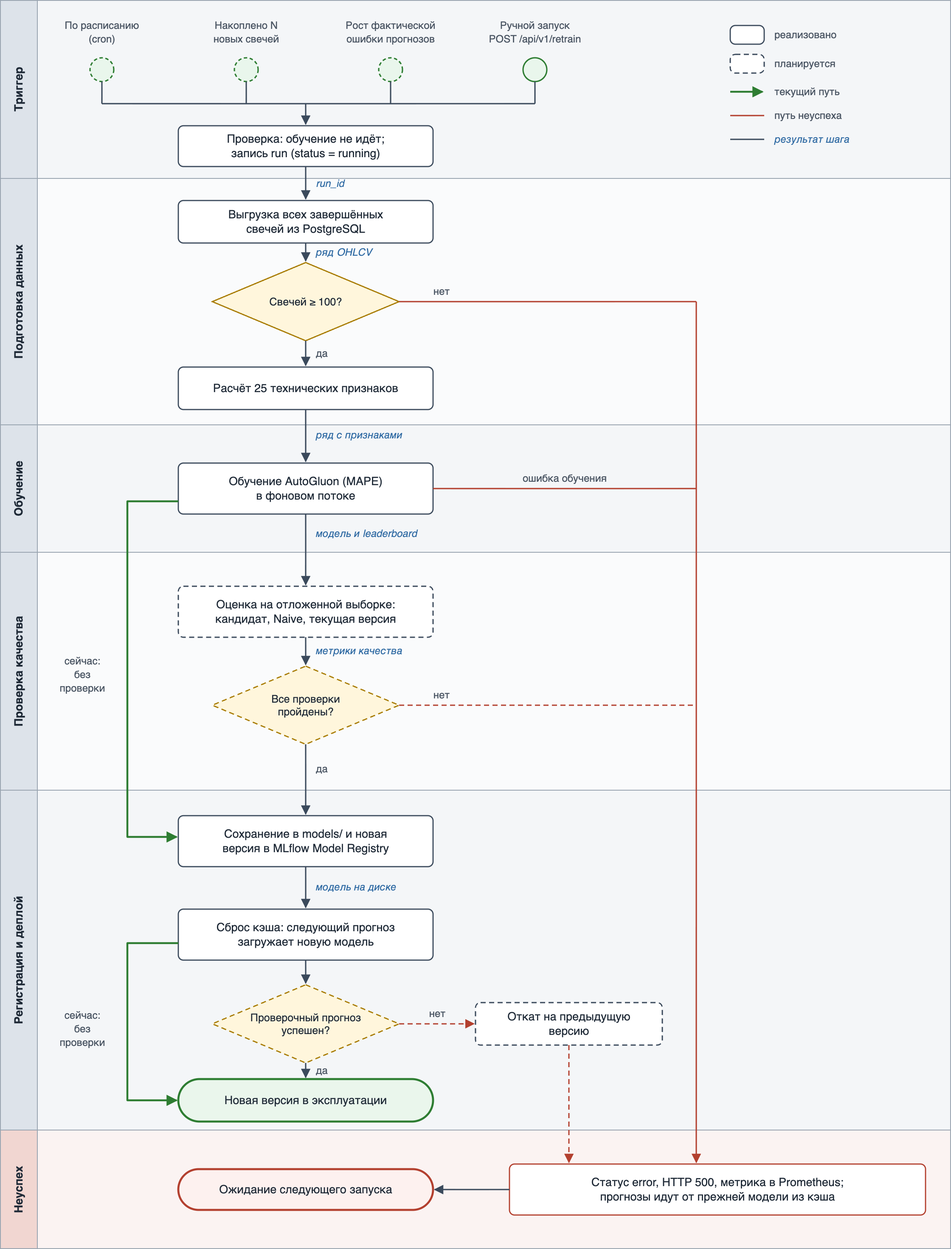
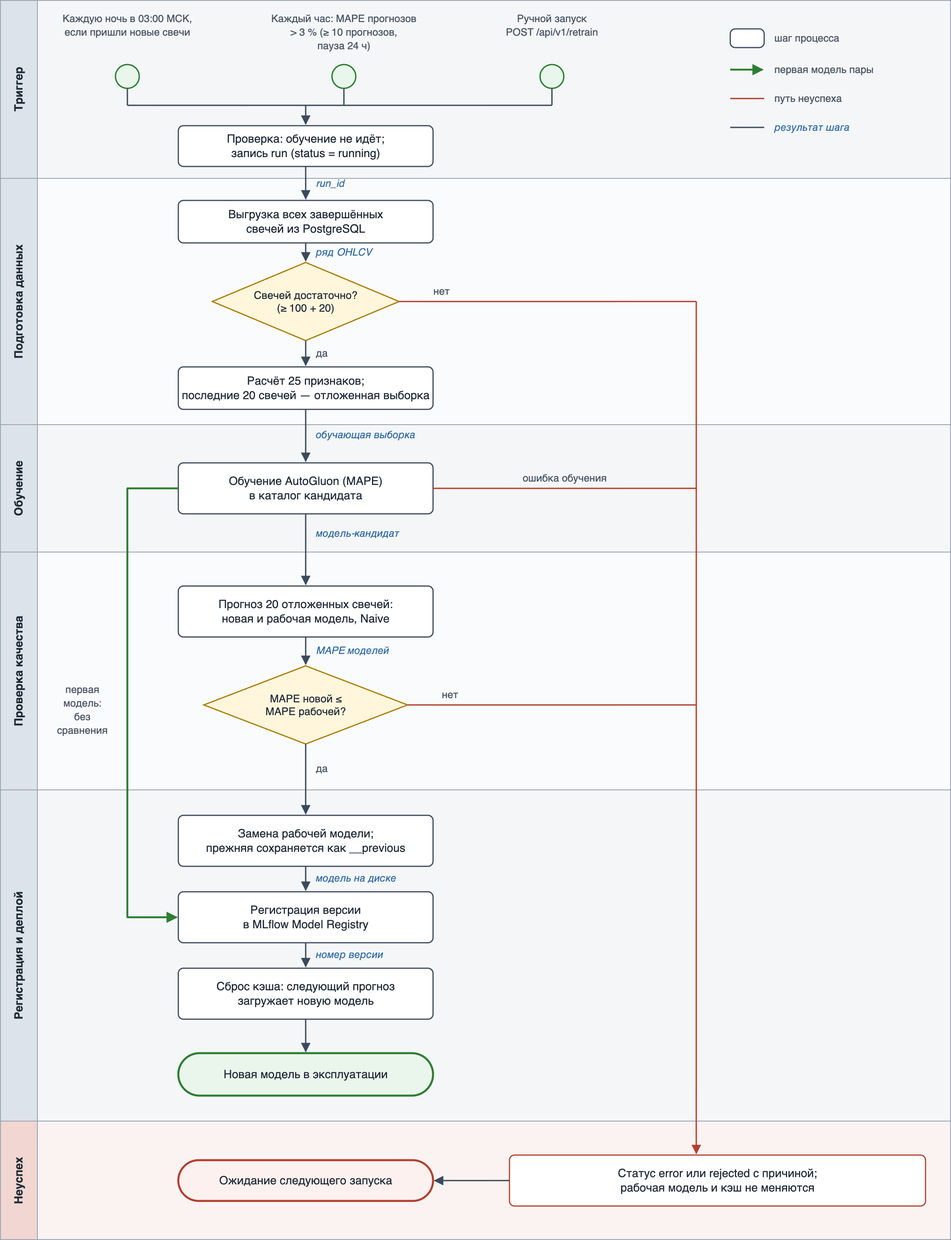
Update the doc and schemas

diff --git a/Model_retrain_BPMN.md b/Model_retrain_BPMN.md
@@ -2,13 +2,19 @@
 
 Документ описывает переобучение модели прогноза цены закрытия — от триггера до ввода новой версии в эксплуатацию. Подробности о модели — в [model_card.md](model_card.md), её место в общем процессе — в [Model_BPMN.md](Model_BPMN.md).
 
-**Текущее состояние.** Переобучение запускается вручную запросом `POST /api/v1/retrain`. Сервис обучает новую модель и сразу ставит её в эксплуатацию: проверки качества перед публикацией и отката пока нет. Автоматических триггеров тоже нет — планировщик сервиса сейчас запускает только прогнозы, но не обучение.
+Переобучение запускается автоматически: каждую ночь по расписанию и при росте фактической ошибки прогнозов. Его можно запустить и вручную. Новая модель попадает в эксплуатацию, только если на последних свечах она прогнозирует не хуже текущей рабочей модели; иначе рабочая модель остаётся.
 
-На схеме и в описании отмечено, какие этапы уже работают, а какие нужно добавить, чтобы переобучение стало автоматическим и безопасным.
+Код процесса:
+
+| Модуль | Что делает |
+|---|---|
+| [app/retrain.py](app/retrain.py) | Триггеры: ночная задача, ежечасная проверка ошибки; запуск переобучения и запись результата в журнал |
+| [app/ml/retraining.py](app/ml/retraining.py) | Обучение кандидата, сравнение с рабочей моделью, замена модели, регистрация в MLflow |
+| [app/ml/training.py](app/ml/training.py) | Обучение модели AutoGluon |
 
 ## Схема процесса
 
-Горизонтальные дорожки — этапы процесса. Сплошной контур — этап реализован, пунктирный — планируется. Зелёная линия — путь, по которому модель проходит сейчас: после обучения она сразу сохраняется и попадает в эксплуатацию. Красные линии — путь неуспеха; синие курсивные подписи — результат, который этап передаёт дальше.
+Горизонтальные дорожки — этапы процесса. Зелёная линия — путь первой модели пары, которую не с чем сравнивать. Красные линии — путь неуспеха, синие курсивные подписи — результат, который этап передаёт дальше.
 
 ![Схема процесса переобучения модели](model_retrain_bpmn.png)
 
@@ -18,85 +24,103 @@
 
 ### 1. Триггер запуска
 
-| Триггер | Условие | Статус |
-|---|---|---|
-| Ручной запуск | Аналитик вызывает `POST /api/v1/retrain` с параметрами `instrument_uid`, `interval` и, при необходимости, `time_limit` | реализовано |
-| По расписанию | cron-задача планировщика, например раз в неделю для `1DAY` | планируется |
-| Накоплены новые данные | С последней свечи, на которой обучалась рабочая модель, пришло не меньше N новых свечей | планируется |
-| Рост фактической ошибки | MAPE последних прогнозов относительно реальных цен закрытия выше порога | планируется |
+Переобучение запускается для пары «инструмент + таймфрейм» одним из трёх событий:
 
-Сервис проверяет, что по этой паре «инструмент + таймфрейм» не идёт другое обучение (иначе отвечает кодом 409), и создаёт запись в таблице `model_training_runs` со статусом `running`.
+| Триггер | Когда срабатывает | Для каких пар |
+|---|---|---|
+| Ночное расписание | Каждую ночь в 03:00 по Москве, после закрытия вечерней сессии. Пара пропускается, если с её прошлого запуска обучения не пришло ни одной новой завершённой свечи, — например, в выходные | Все пары, у которых есть обученная модель |
+| Рост фактической ошибки | Проверка идёт каждый час в :15. Ретрейн запускается, если выполнены все условия: сверено не меньше 10 прогнозов текущей модели; их средний MAPE (по последним 20) выше 3 %; с прошлого запуска обучения прошло больше 24 часов | Все пары, у которых есть обученная модель |
+| Ручной запуск | Вызов `POST /api/v1/retrain` с параметрами `instrument_uid`, `interval` и, при необходимости, `time_limit` | Любая пара |
+
+**Как считается фактическая ошибка.** Каждый прогноз — по API и по расписанию — сохраняется в таблицу `model_predictions` вместе с отметкой модели, которая его сделала. Когда появляется следующая завершённая свеча, прогноз сверяется с её ценой закрытия. Учитываются только прогнозы текущей рабочей модели, поэтому после замены модели счёт начинается заново. Фактический MAPE выводится в Prometheus метрикой `model_realized_mape`.
+
+**Зачем пауза 24 часа.** Если новую модель отклонят, рабочая модель и её высокая ошибка останутся, и без паузы ретрейн запускался бы каждый час. Ночной запуск тоже считается, поэтому в будни проверка ошибки срабатывает в основном тогда, когда ночного запуска не было.
+
+Перед стартом сервис проверяет, что пара сейчас не обучается: в журнале нет запуска со статусом `running`, и ни один другой триггер в этот момент её не обучает. Иначе запуск пропускается, а вызов API получает код 409. Затем в таблице `model_training_runs` создаётся запись со статусом `running`.
 
 **Результат:** `run_id` запуска, инструмент, таймфрейм, лимит времени обучения.
 
 ### 2. Получение и подготовка данных
 
-Сервис выгружает из PostgreSQL все завершённые свечи пары (`is_complete = TRUE`); если их нет совсем, отвечает кодом 404. Для обучения нужно не меньше 100 свечей (`MIN_CANDLES_TRAIN`). Из свечей рассчитываются 25 технических признаков: геометрия свечи, скользящие средние, MACD, RSI, полосы Боллинджера, объём, доходности.
+Сервис выгружает из PostgreSQL все завершённые свечи пары (`is_complete = TRUE`); если их нет совсем, запуск не создаётся, а API отвечает кодом 404.
 
-Планируется: проверять свежесть данных (последняя свеча не старше нескольких интервалов таймфрейма) и откладывать последние свечи для проверки качества.
+Если у пары уже есть рабочая модель, нужно не меньше 120 свечей: 100 для обучения (`MIN_CANDLES_TRAIN`) и 20 последних для сравнения (`RETRAIN_HOLDOUT_SIZE`). Эти 20 свечей в обучение не попадают — это отложенная выборка, на которой новая модель будет сравниваться с рабочей. Из свечей рассчитываются 25 технических признаков: геометрия свечи, скользящие средние, MACD, RSI, полосы Боллинджера, объём, доходности.
 
-**Результат:** временной ряд цены закрытия с признаками.
+**Результат:** обучающая выборка и отложенная выборка из 20 свечей.
 
 ### 3. Обучение новой версии
 
-AutoGluon TimeSeries с пресетом `medium_quality` обучает модели-кандидаты в пределах лимита времени (по умолчанию 120 секунд) и собирает из них взвешенный ансамбль; модели отбираются по MAPE на последней точке ряда. Обучение идёт в отдельном потоке, поэтому сервис продолжает отвечать на запросы. Параметры, признаки и leaderboard записываются в запуск MLflow, MAPE лучшей модели — в метрику Prometheus `model_best_mape`.
+AutoGluon TimeSeries с пресетом `medium_quality` обучает модели-кандидаты в пределах лимита времени (по умолчанию 120 секунд) и собирает из них взвешенный ансамбль. Модель сохраняется в отдельный каталог `models/{instrument_uid}__{interval}__candidate/`, поэтому рабочая модель продолжает обслуживать прогнозы, пока идёт обучение. Обучение идёт в отдельном потоке, и сервис продолжает отвечать на запросы. Параметры, признаки, leaderboard и сама модель записываются в запуск MLflow.
 
-**Результат:** обученная модель и leaderboard кандидатов.
+**Первая модель пары.** Если рабочей модели ещё нет, сравнивать не с чем: модель обучается на всех свечах сразу в рабочий каталог и переходит к регистрации (зелёная линия на схеме).
 
-### 4. Проверка качества — планируется
+**Результат:** модель-кандидат.
 
-Сейчас качество новой модели перед публикацией не проверяется: MAPE внутренней валидации AutoGluon только записывается в MLflow и Prometheus. Он считается на одной точке и поэтому ненадёжен (подробнее — в разделах 6 и 8 [model_card.md](model_card.md)).
+### 4. Проверка качества
 
-Планируемая проверка: последние 20–30 свечей не участвуют в обучении. Новая модель, наивный прогноз «цена не изменится» и текущая рабочая модель прогнозируют каждую из этих свечей на шаг вперёд, после чего сравниваются их MAPE и доля верно угаданных направлений движения цены.
+Новая модель и рабочая модель прогнозируют каждую из 20 отложенных свечей на один шаг вперёд — каждый раз только по истории до этой свечи. Для обеих считается MAPE. Для справки считается и MAPE наивного прогноза «цена не изменится». Все три значения записываются в запуск MLflow (`holdout_candidate_mape`, `holdout_production_mape`, `holdout_naive_mape`) и возвращаются в ответе API в поле `comparison`.
 
-**Результат:** метрики новой модели, наивного прогноза и текущей модели на одних и тех же данных.
+**Результат:** MAPE новой модели, рабочей модели и наивного прогноза на одних и тех же свечах.
 
-### 5. Решение о публикации — планируется
+### 5. Решение о публикации
 
-Сейчас в эксплуатацию попадает любая модель, обучение которой завершилось без ошибок.
+Новая модель публикуется, если её MAPE на отложенной выборке не больше MAPE рабочей модели. Допустимое ухудшение задаётся настройкой `RETRAIN_MAPE_TOLERANCE`; по умолчанию оно равно 0, то есть новая модель должна быть не хуже.
 
-Планируемые условия публикации — модель выпускается, только если выполнены все:
+Если новая модель хуже, она удаляется, рабочая модель остаётся, а запуск получает статус `rejected` с причиной. Решение записывается тегом `decision` в запуск MLflow.
 
-| № | Проверка | Условие |
-|---|---|---|
-| 1 | Технический прогон | Обучение без ошибок, прогнозы на отложенной выборке без пропусков |
-| 2 | Абсолютное качество | MAPE не выше 3 % — порог «нормы» на дашборде Grafana |
-| 3 | Лучше наивного прогноза | MAPE ниже, чем у прогноза «цена не изменится» |
-| 4 | Не хуже текущей модели | MAPE не больше MAPE текущей модели × 1,05 |
-| 5 | Направление движения | Доля верно угаданных направлений не ниже 50 % |
-
-**Результат:** решение «публиковать» или «отклонить» с причинами.
+**Результат:** решение «публиковать» или «отклонить» с причиной.
 
 ### 6. Регистрация и сохранение новой версии
 
-Модель сохраняется в каталог `models/{instrument_uid}__{interval}/` (предиктор AutoGluon, `meta.json`, `leaderboard.csv`) и регистрируется в MLflow Model Registry как новая версия модели `Price_Predictor_{instrument_uid}_{interval}`. Запуск в `model_training_runs` получает статус `done`, лучшую модель, MAPE и leaderboard.
+Каталог новой модели становится рабочим `models/{instrument_uid}__{interval}/`. Прежняя модель сохраняется как `models/{instrument_uid}__{interval}__previous/`, и при необходимости к ней можно вернуться вручную. Новая модель регистрируется в MLflow Model Registry как очередная версия модели `Price_Predictor_{instrument_uid}_{interval}`; отклонённые модели в реестр не попадают. Запуск в `model_training_runs` получает статус `done`, лучшую модель, MAPE и leaderboard.
 
-**Результат:** модель на диске и номер версии в реестре.
+**Результат:** новая модель в рабочем каталоге и номер её версии в реестре.
 
 ### 7. Деплой
 
-Новая модель разворачивается внутри работающего сервиса, без пересборки Docker-образа: CI/CD через GitHub Actions доставляет код, а модели лежат в томе `model_data`. После обучения `POST /api/v1/retrain` удаляет прежнюю модель из кэша в памяти, и следующий прогноз — по API или по расписанию — загружает новую модель с диска. Старый эндпоинт обучения `POST /api/v1/` кэш не сбрасывает: модель, обученная через него, начнёт работать только после перезапуска сервиса.
+Новая модель разворачивается внутри работающего сервиса, без пересборки Docker-образа: CI/CD через GitHub Actions доставляет код, а модели лежат в томе `model_data`. После замены сервис удаляет прежнюю модель из кэша в памяти, и следующий прогноз — по API или по расписанию — загружает новую модель с диска. Перезапуск сервиса не нужен.
 
-Планируется: проверочный прогноз сразу после переключения (модель загружается и возвращает правдоподобное число) и автоматический откат на предыдущую версию, если он не прошёл.
-
-**Результат:** новая модель обслуживает прогнозы; её качество видно на дашборде Grafana.
+**Результат:** новая модель обслуживает прогнозы; её фактическая ошибка снова отслеживается с нуля.
 
 ## При каких условиях модель попадает в эксплуатацию
 
-| | Сейчас | После доработки |
-|---|---|---|
-| Что запускает | Ручной вызов `POST /api/v1/retrain` | Расписание, новые данные, рост фактической ошибки или ручной вызов |
-| Какие проверки проходит модель | Свечей не меньше 100; обучение завершилось без ошибок | Плюс свежесть данных, пять условий на отложенной выборке и проверочный прогноз после деплоя |
-| Когда модель попадает в эксплуатацию | Сразу после успешного обучения | Только если пройдены все проверки |
+1. Сработал один из триггеров: ночное расписание при наличии новых свечей, рост фактической ошибки выше 3 % или ручной вызов.
+2. Пара в этот момент не обучается.
+3. Свечей хватает для обучения и сравнения: не меньше 120, а для первой модели пары — не меньше 100.
+4. Обучение завершилось без ошибок.
+5. На последних 20 свечах MAPE новой модели не больше MAPE рабочей. Для первой модели пары этот шаг пропускается.
 
 ## Действия при неуспехе
 
-| Где произошёл сбой | Что происходит сейчас | Что планируется |
+Общее правило: при любом неуспехе рабочая модель и кэш не меняются, прогнозы продолжают идти от прежней модели.
+
+| Где произошёл сбой | Что происходит | Что дальше |
 |---|---|---|
-| Свечей нет | Ответ 404, запуск не создаётся | — |
-| Свечей меньше 100 | Запуск получает статус `error` с текстом ошибки, ответ 500 | Отвечать кодом 422, как старый эндпоинт обучения |
-| Ошибка во время обучения | Запуск получает статус `error` с текстом ошибки, растёт счётчик `model_training_runs_total{status="error"}`, ответ 500. Кэш не сбрасывается, поэтому прогнозы идут от прежней модели в памяти | Обучать в отдельный каталог, чтобы сбой не затрагивал файлы рабочей модели |
-| Данные устарели | Не проверяется | Статус `error`, обучение не начинается |
-| Модель не прошла проверки качества | Не проверяется: модель публикуется | Статус `rejected` с причинами, в эксплуатации остаётся текущая модель |
-| Проверочный прогноз не прошёл | Не проверяется | Откат на предыдущую версию, статус `rejected` |
-| Сервис перезапустился во время обучения | Запуск навсегда остаётся в статусе `running`, и новые обучения этой пары получают ответ 409 | При старте помечать незавершённые запуски статусом `error` |
+| Пара уже обучается | Запуск пропускается; вызов API получает код 409 | Следующее срабатывание триггера |
+| Свечей нет | Запуск не создаётся; вызов API получает код 404 | Следующее срабатывание триггера |
+| Свечей недостаточно или ошибка обучения | Запуск получает статус `error` с текстом ошибки; каталог кандидата удаляется; вызов API получает код 500 | Следующее срабатывание триггера |
+| Новая модель хуже рабочей | Запуск получает статус `rejected` с причиной и значениями MAPE; новая модель удаляется и в реестр MLflow не попадает | Следующая ночь с новыми свечами или проверка ошибки после паузы 24 часа |
+| Сбой одной пары в ночной или ежечасной задаче | Ошибка записывается в лог, а если обучение успело начаться — и в журнал запусков; остальные пары обрабатываются дальше | Следующее срабатывание задачи |
+
+## Настройки
+
+Все параметры задаются переменными окружения; значения по умолчанию — в [.env.example](.env.example).
+
+| Переменная | По умолчанию | Смысл |
+|---|---|---|
+| `RETRAIN_CRON` | `0 3 * * *` | Расписание ночного ретрейна; пустое значение выключает его |
+| `RETRAIN_TIMEZONE` | `Europe/Moscow` | Часовой пояс расписаний |
+| `RETRAIN_ERROR_CHECK_CRON` | `15 * * * *` | Расписание проверки фактической ошибки; пустое значение выключает её |
+| `RETRAIN_MAX_REALIZED_MAPE` | `0.03` | Порог фактической ошибки, 3 % — граница «нормы» на дашборде Grafana |
+| `REALIZED_ERROR_WINDOW` | `20` | По скольким последним сверенным прогнозам считается ошибка |
+| `REALIZED_ERROR_MIN_POINTS` | `10` | Сколько прогнозов нужно сверить, чтобы проверка могла сработать |
+| `RETRAIN_COOLDOWN_HOURS` | `24` | Пауза после любого запуска обучения перед ретрейном из-за ошибки |
+| `RETRAIN_HOLDOUT_SIZE` | `20` | Сколько последних свечей откладывается для сравнения моделей |
+| `RETRAIN_MAPE_TOLERANCE` | `0.0` | Допустимое ухудшение MAPE новой модели (0.05 = 5 %) |
+
+## Что ещё можно улучшить
+
+- **Проверочный прогноз после замены и автоматический откат**, если новая модель не загрузилась или выдаёт неправдоподобные значения. Сейчас прежняя модель сохраняется в `__previous`, но вернуть её можно только вручную.
+- **Проверка свежести данных** перед обучением: сейчас модель обучится и на устаревших свечах, если сбор данных остановился.
+- **Прогноз и сверка по событию.** Можно реагировать на новую свечу из топика Kafka `raw_candles` сразу, а не по расписанию.
+- **Отметка триггера в журнале запусков:** по таблице `model_training_runs` сейчас не видно, был запуск ночным, по ошибке или ручным; это видно только в логах.

diff --git a/model_card.md b/model_card.md
@@ -8,7 +8,7 @@
 |---|---|
 | **Название** | `Price_Predictor_{instrument_uid}_{interval}` (имя в MLflow Model Registry) |
 | **Проект** | «Автоматизация ML-пайплайна для прогнозирования движения цен акций на основе исторических рыночных данных» |
-| **Дата карточки** | 10.10.2026 |
+| **Дата карточки** | 26.10.2026 |
 | **Версия сервиса** | 0.1.0; версии моделей ведутся в MLflow Model Registry |
 | **Тип модели** | AutoML-ансамбль моделей прогнозирования временных рядов |
 | **Фреймворк** | AutoGluon TimeSeries 1.4.0 (`TimeSeriesPredictor`), PyTorch 2.2.2 (CPU) |
@@ -27,9 +27,9 @@
 
 Состав зависит от лимита времени: модели, не успевшие обучиться, в ансамбль не попадают.
 
-**Место в системе.** Модель — третий блок пайплайна: сбор данных (`data-ingestion-service`, T-Invest API) → расчёт признаков (`data-feature-engineering-service`, обмен через Kafka) → AutoML-обучение и инференс (`model-processing-service`) → валидация и мониторинг (MLflow, Prometheus, Grafana, Loki). Сервис поставляется Docker-образом (CPU-сборка PyTorch, около 920 МБ) и разворачивается через GitHub Actions.
+**Место в системе.** Модель работает в сервисе `model-processing-service`. Свечи в PostgreSQL пишет `data-ingestion-service` из T-Invest API, а признаки модель рассчитывает сама: сервис признаков `data-feature-engineering-service` публикует свои индикаторы в Kafka, но модель их пока не использует. Результаты обучения и прогнозов уходят в MLflow, Prometheus, Grafana и Loki. Сервис поставляется Docker-образом (CPU-сборка PyTorch, около 920 МБ) и разворачивается через GitHub Actions.
 
-**Параметры обучения** ([app/config.py](app/config.py), [app/ml_service.py](app/ml_service.py)):
+**Параметры обучения** ([app/config.py](app/config.py), [app/ml/training.py](app/ml/training.py)):
 
 | Параметр | Значение по умолчанию |
 |---|---|
@@ -40,7 +40,12 @@
 | Лимит времени обучения (`TRAINING_TIME_LIMIT`) | 120 с (через API — от 30 до 3600 с) |
 | Минимум свечей для обучения / прогноза | 100 / 30 |
 
-**Артефакты.** Каталог `models/{instrument_uid}__{interval}/` (предиктор AutoGluon, `meta.json`, `leaderboard.csv`); те же артефакты и pyfunc-обёртка — в MLflow (эксперимент `Price_Predictor_{instrument_uid}_{interval}`); запись об обучении — в таблице PostgreSQL `model_training_runs`.
+**Артефакты.**
+- Рабочая модель — каталог `models/{instrument_uid}__{interval}/` (предиктор AutoGluon, `meta.json`, `leaderboard.csv`). Предыдущая рабочая модель после переобучения хранится в `models/{instrument_uid}__{interval}__previous/`.
+- Те же артефакты и pyfunc-обёртка — в MLflow (эксперимент `Price_Predictor_{instrument_uid}_{interval}`). Модели, попавшие в эксплуатацию, зарегистрированы как версии в MLflow Model Registry.
+- Запись о каждом обучении — в таблице PostgreSQL `model_training_runs`, каждый прогноз и его фактическая ошибка — в `model_predictions`.
+
+**Обновление модели.** Модель переобучается автоматически каждую ночь, если пришли новые свечи, и при росте фактической ошибки прогнозов; её можно переобучить и вручную. Новая версия заменяет рабочую, только если на последних 20 свечах прогнозирует не хуже. Процесс описан в [Model_retrain_BPMN.md](Model_retrain_BPMN.md).
 
 ## 2. Назначение (Intended Use)
 
@@ -49,7 +54,7 @@
 **Решаемая задача.** Регрессия на временном ряде: точечный и вероятностный прогноз цены закрытия следующей свечи биржевого инструмента по истории OHLCV-свечей.
 
 **Основное применение.**
-- учебно-исследовательский MLOps-проект: полный цикл «обучение → реестр моделей → инференс по запросу и по расписанию → мониторинг»;
+- учебно-исследовательский MLOps-проект: полный цикл «обучение → реестр моделей → инференс по запросу и по расписанию → мониторинг → автоматическое переобучение»;
 - вспомогательный сигнал о направлении и величине ожидаемого изменения цены (`change_pct`) для аналитика.
 
 **Целевые пользователи.** Разработчики и ML-инженеры проекта, аналитики, использующие прогноз как один из входов.
@@ -102,6 +107,7 @@
 | `change_pct` | Ожидаемое изменение относительно `last_close`, % |
 | `prediction_date` | Дата, на которую дан прогноз |
 | `model_used` | Имя лучшей модели из leaderboard |
+| `model_version` | Время обучения модели, сделавшей прогноз; по нему прогнозы сверяются с фактом |
 
 ## 4. Факторы (Factors)
 
@@ -120,13 +126,14 @@
 
 | Метрика | Где считается | Назначение |
 |---|---|---|
-| MAPE (`best_mape`) | валидационное окно AutoGluon | основная метрика, по ней отбираются модели и веса ансамбля |
+| MAPE (`best_mape`) | валидационное окно AutoGluon | отбор моделей и весов ансамбля внутри запуска |
 | MAPE по каждому кандидату (`mape_{model}`) | leaderboard | сравнение моделей внутри запуска |
-| Время обучения кандидата (`fit_time_{model}`) | leaderboard | стоимость обучения |
+| MAPE на отложенной выборке (`holdout_candidate_mape`, `holdout_production_mape`, `holdout_naive_mape`) | последние 20 свечей, не участвовавшие в обучении новой версии | решение о замене рабочей модели при переобучении |
+| Фактический MAPE (`model_realized_mape`) | прогнозы рабочей модели против реальных цен закрытия | контроль деградации в эксплуатации, триггер переобучения |
 
 MAPE = среднее |y − ŷ| / |y|; в коде хранится в долях (0.01 = 1 %). Выбрана потому, что не зависит от масштаба цены и позволяет сравнивать инструменты между собой.
 
-**Эксплуатационные метрики** (Prometheus → Grafana, [app/metrics.py](app/metrics.py)): `model_best_mape`, `model_leaderboard_mape`, `model_training_samples_total`, `model_training_duration_seconds`, `model_training_runs_total`, `model_prediction_total`, `model_prediction_duration_seconds`, `model_predicted_change_pct` (распределение прогнозируемых изменений — косвенный индикатор дрейфа), `model_predicted_close_price`, метрики планировщика `scheduler_job_*`.
+**Эксплуатационные метрики** (Prometheus → Grafana, [app/metrics.py](app/metrics.py)): `model_best_mape`, `model_leaderboard_mape`, `model_training_samples_total`, `model_training_duration_seconds`, `model_training_runs_total`, `model_prediction_total`, `model_prediction_duration_seconds`, `model_predicted_change_pct` (распределение прогнозируемых изменений — косвенный индикатор дрейфа), `model_predicted_close_price`, `model_realized_mape` (фактическая ошибка рабочей модели), метрики планировщика `scheduler_job_*`.
 
 **Пороговые значения на дашборде Grafana**
 
@@ -142,7 +149,13 @@ MAPE = среднее |y − ŷ| / |y|; в коде хранится в доля
 
 ## 6. Данные для оценки (Evaluation Data)
 
-Отдельной отложенной (hold-out) выборки нет. Оценка — внутренняя валидация AutoGluon: последние `prediction_length` точек обучающего ряда. При горизонте 1 это **одна точка**, то есть `best_mape` — ошибка на одной свече.
+Используются три оценки:
+
+- **Внутренняя валидация AutoGluon** — последние `prediction_length` точек обучающего ряда, то есть при горизонте 1 **одна точка**. Ею AutoGluon выбирает модели и веса ансамбля; `best_mape` — ошибка на одной свече.
+- **Отложенная выборка при переобучении** — последние 20 свечей (`RETRAIN_HOLDOUT_SIZE`) не участвуют в обучении новой версии. Новая и рабочая модели прогнозируют каждую из них на шаг вперёд по истории до неё, и новая версия публикуется, только если её MAPE не больше, чем у рабочей. Для справки считается MAPE наивного прогноза «цена не изменится».
+- **Фактическая ошибка в эксплуатации** — MAPE последних 20 прогнозов рабочей модели относительно реальных цен закрытия.
+
+Первая модель пары отложенной выборки не проходит: сравнивать её не с чем, и она обучается на всех свечах.
 
 ## 7. Обучающие данные (Training Data)
 
@@ -169,14 +182,16 @@ MAPE = среднее |y − ŷ| / |y|; в коде хранится в доля
 **Как читать эти цифры.**
 - Ошибка всех моделей, включая наивные, — сотые доли процента. Это свойство данных: цена за одну минуту почти не меняется, и прогноз «следующая цена равна текущей» уже даёт MAPE 0.025 %. Задача восстановления уровня цены на таком горизонте проста, и это не равно умению предсказывать направление движения.
 - Одиночные модели отличаются от наивного прогноза не более чем в 2–4 раза, а `SeasonalNaive` обходит все обучаемые модели — преимущество сложных моделей не показано.
-- MAPE ансамбля на четыре порядка ниже, чем у любой входящей в него модели. Вероятное объяснение — валидация на одной точке (раздел 6): веса ансамбля подбираются на той же точке, и комбинация прогнозов, лежащих по разные стороны от факта, попадает в неё почти точно. Это подгонка под валидацию, а не реальная точность; в отчёте по проекту также отмечено, что столь малые значения требуют дополнительной проверки на инерционность цены и утечку данных.
+- MAPE ансамбля на четыре порядка ниже, чем у любой входящей в него модели. Вероятное объяснение — валидация на одной точке (раздел 6): веса ансамбля подбираются на той же точке, и комбинация прогнозов, лежащих по разные стороны от факта, попадает в неё почти точно. Это подгонка под валидацию, а не реальная точность; в отчёте по проекту также отмечено, что столь малые значения требуют дополнительной проверки на инерционность цены и утечку данных. Запуск сделан до введения отложенной выборки; при переобучении такая версия теперь сравнивается с рабочей на 20 свечах, которых не видела при обучении.
 
 Результаты по другим таймфреймам (`1DAY`, `1HOUR`) в карточку не внесены. Актуальные значения доступны:
 
 - `GET /api/v1/best` — последняя успешная модель и её MAPE по каждой паре;
 - `GET /api/v1/runs/{run_id}/leaderboard` — качество всех кандидатов запуска;
 - MLflow, эксперимент `Price_Predictor_{instrument_uid}_{interval}`;
-- Grafana, панели «MAPE лучшей модели» и «Leaderboard — MAPE всех моделей».
+- Grafana, панели «MAPE лучшей модели» и «Leaderboard — MAPE всех моделей»;
+- метрика `model_realized_mape` — фактическая ошибка рабочей модели;
+- `holdout_*` в запусках MLflow — сравнение новой и рабочей модели при переобучении.
 
 ## 9. Ограничения и особенности применения (Caveats and Recommendations)
 
@@ -185,20 +200,26 @@ MAPE = среднее |y − ŷ| / |y|; в коде хранится в доля
 - Транзакционные издержки, проскальзывание и ликвидность не моделируются.
 
 **Ограничения оценки**
-- Валидация на одной точке (раздел 6) даёт статистически ненадёжную оценку и позволяет ансамблю подогнаться под эту точку (раздел 8).
+- Внутренняя метрика `best_mape` считается на одной точке (раздел 6) и может быть близка к нулю из-за подгонки ансамбля (раздел 8); судить о качестве нужно по отложенной выборке и фактической ошибке.
 - Leaderboard строится на тех же данных, на которых шло обучение, и сортируется по ошибке на них; поэтому `best_model` / `model_used` может не совпадать с моделью, которой предиктор реально делает прогноз, а `best_mape` берётся из валидационной оценки этой строки.
-- Фактическая ошибка прогнозов в эксплуатации (прогноз против реализовавшейся цены) не отслеживается.
+- Отложенная выборка при переобучении — всего 20 свечей, поэтому сравнение моделей шумное.
+- Новая версия должна быть только не хуже рабочей: требований быть лучше наивного прогноза или правильно угадывать направление движения цены нет.
+- Если рабочая модель обучалась на тех же свечах, что попали в отложенную выборку, сравнение смещено в её пользу. Так бывает при первом переобучении модели, обученной через `POST /api/v1/`; модели, опубликованные переобучением, этих свечей не видели.
+- Фактическая ошибка известна только после появления следующей свечи, поэтому деградация обнаруживается с задержкой не меньше одного интервала таймфрейма. Для её расчёта нужны прогнозы: без запросов к API или задачи прогноза по расписанию ретрейн по ошибке не сработает.
 
 **Особенности реализации**
-- Загруженная модель кэшируется в памяти процесса и после переобучения не обновляется до перезапуска сервиса.
-- Переобучение запускается только вручную (`POST /api/v1/`); автоматического переобучения и контроля дрейфа данных нет.
+- Загруженная модель кэшируется в памяти процесса. После переобучения через `POST /api/v1/retrain` или автоматически кэш сбрасывается; после обучения через `POST /api/v1/` новая модель начнёт работать только после перезапуска сервиса.
+- Метрики `model_best_mape` и `model_leaderboard_mape` обновляются при каждом обучении, включая отклонённые версии, поэтому на дашборде они могут относиться не к рабочей модели.
+- Автоматического отката нет: прежняя модель хранится в `__previous` и возвращается вручную. Свежесть данных перед обучением не проверяется.
+- Контролируется дрейф качества (фактическая ошибка), но не дрейф входных данных.
 - При лимите обучения 120 с часть моделей пресета может не успеть обучиться, состав ансамбля меняется от запуска к запуску.
 
 **Рекомендации**
 - Использовать прогноз только как вспомогательный сигнал, решение оставлять за человеком.
-- Перед использованием модели сравнивать MAPE одиночных моделей с `Naive` и `SeasonalNaive` в leaderboard того же запуска; оценке ансамбля не доверять, пока валидация идёт на одной точке.
-- Переобучать модель регулярно и после резких изменений рынка; после переобучения перезапускать сервис.
-- Для надёжной оценки добавить бэктест на нескольких окнах (`num_val_windows`), отложенную выборку и учёт фактической ошибки прогнозов.
+- Оценивать качество по `holdout_*` в MLflow и `model_realized_mape`, а не по `best_mape`; сравнивать их с MAPE наивного прогноза.
+- Настроить задачу прогноза по расписанию для каждой используемой пары, чтобы фактическая ошибка считалась и ретрейн по ней мог срабатывать.
+- Подобрать порог фактической ошибки (`RETRAIN_MAX_REALIZED_MAPE`, по умолчанию 3 %) по реальным данным инструмента.
+- Для надёжной оценки увеличить отложенную выборку или проверять на нескольких окнах (`num_val_windows`), а при публикации требовать, чтобы модель была лучше наивного прогноза.
 
 ## 10. Этические аспекты (Ethical Considerations)
 

diff --git a/Model_BPMN.md b/Model_BPMN.md
@@ -10,7 +10,7 @@
 
 Редактируемый исходник схемы — [model_bpmn.svg](model_bpmn.svg).
 
-**Текущее состояние.** Топик `enriched_features` пока никто не читает: модель берёт свечи напрямую из PostgreSQL и рассчитывает признаки сама. После подключения потребителя модель будет получать готовые признаки из Kafka, и расчёт признаков полностью перейдёт к сервису признаков.
+**Текущее состояние.** Сервис модели к Kafka не подключён: топики `raw_candles` и `enriched_features` он не читает, а свечи берёт напрямую из PostgreSQL и рассчитывает признаки сам. Подключить `enriched_features` можно не сразу: сервис признаков считает другой набор индикаторов (26 против 25 у модели, с другими формулами и названиями) и нигде их не хранит. Поэтому для перехода модель нужно переобучить на признаках сервиса и начать сохранять их историю для обучения.
 
 ## Какую задачу в процессе решает модель
 
@@ -21,7 +21,7 @@
 ## Почему для этой задачи целесообразно использовать ML
 
 - **Много взаимосвязанных сигналов.** Прогноз опирается на десятки индикаторов (скользящие средние, MACD, RSI, полосы Боллинджера, объём, лаговые доходности). Жёсткие правила вида «RSI выше 70 — продавать» не учитывают их совместное влияние, а модель подбирает зависимости по данным.
-- **Рынок меняется.** Паттерны устаревают, и правила пришлось бы пересматривать вручную. Модель переобучается на свежей истории одной командой.
+- **Рынок меняется.** Паттерны устаревают, и правила пришлось бы пересматривать вручную. Модель переобучается на свежей истории автоматически — каждую ночь и при росте фактической ошибки — и заменяется, только если новая версия прогнозирует не хуже текущей.
 - **AutoML вместо ручного подбора.** AutoGluon сам обучает статистические, табличные и нейросетевые модели, сравнивает их по MAPE на валидации и собирает ансамбль. Добавление нового инструмента или таймфрейма не требует работы ML-инженера.
 - **Оценка неопределённости.** Модель выдаёт не только число, но и интервал прогноза.
 
@@ -40,6 +40,7 @@
 
 - **Ответ API аналитику.** `POST /api/v1/predict` возвращает прогноз цены, изменение в процентах, интервал и дату прогноза. Аналитик использует его как один из сигналов при решении по инструменту; автоматических сделок система не совершает.
 - **Прогнозы по расписанию.** Задача планировщика (cron) делает прогноз без участия человека и записывает его в MLflow — получается история прогнозов по инструменту.
-- **Мониторинг.** Прогнозы и результаты обучения уходят в Prometheus и отображаются в Grafana: MAPE лучшей модели и всех кандидатов, предсказанная цена, распределение предсказанных изменений, время и ошибки инференса.
-- **Обратная связь.** Если на дашборде видно ухудшение качества или прогнозы выглядят аномально, аналитик запускает переобучение (`POST /api/v1/`), и цикл повторяется на свежих данных. Автоматического переобучения пока нет.
-- **Реестр моделей.** Каждая обученная модель регистрируется в MLflow Registry с метриками и параметрами, а запуск фиксируется в таблице `model_training_runs` — это позволяет сравнивать версии и разбирать, какой моделью сделан прогноз.
+- **Журнал прогнозов.** Каждый прогноз — по API и по расписанию — сохраняется в таблицу PostgreSQL `model_predictions` вместе с отметкой модели, которая его сделала (`model_version` в ответе API). Когда появляется следующая свеча, прогноз сверяется с фактической ценой закрытия, и по последним прогнозам считается фактическая ошибка рабочей модели.
+- **Мониторинг.** Прогнозы и результаты обучения уходят в Prometheus и отображаются в Grafana: MAPE лучшей модели и всех кандидатов, фактический MAPE прогнозов рабочей модели (`model_realized_mape`), предсказанная цена, распределение предсказанных изменений, время и ошибки инференса.
+- **Обратная связь.** Если фактическая ошибка рабочей модели выше 3 %, сервис сам запускает переобучение. Кроме того, модели переобучаются каждую ночь, если пришли новые свечи, а аналитик может запустить переобучение вручную (`POST /api/v1/retrain`). Новая версия заменяет рабочую, только если на последних 20 свечах её MAPE не хуже. Процесс описан в [Model_retrain_BPMN.md](Model_retrain_BPMN.md).
+- **Реестр моделей.** Каждая модель, попавшая в эксплуатацию, регистрируется в MLflow Registry с метриками и параметрами; отклонённые при переобучении версии в реестр не попадают. Каждый запуск обучения фиксируется в таблице `model_training_runs` со статусом `done`, `rejected` или `error` — это позволяет сравнивать версии и разбирать, какой моделью сделан прогноз.
